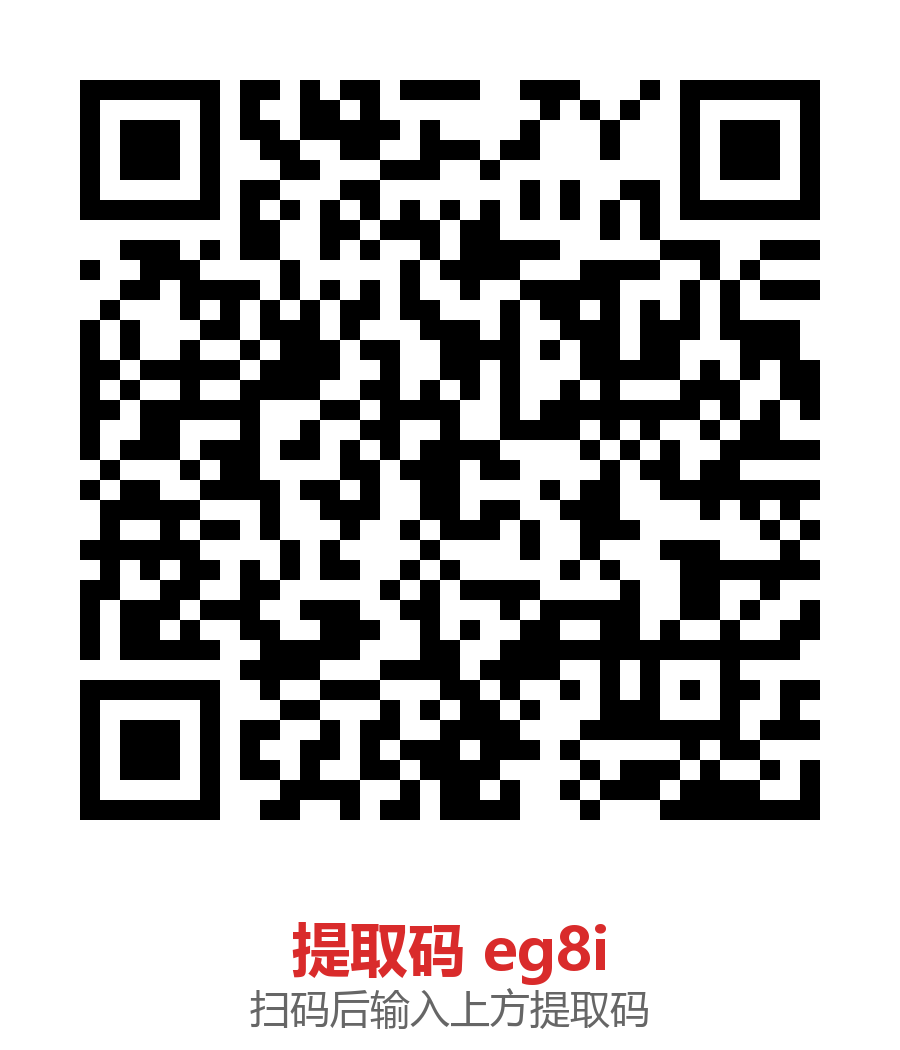
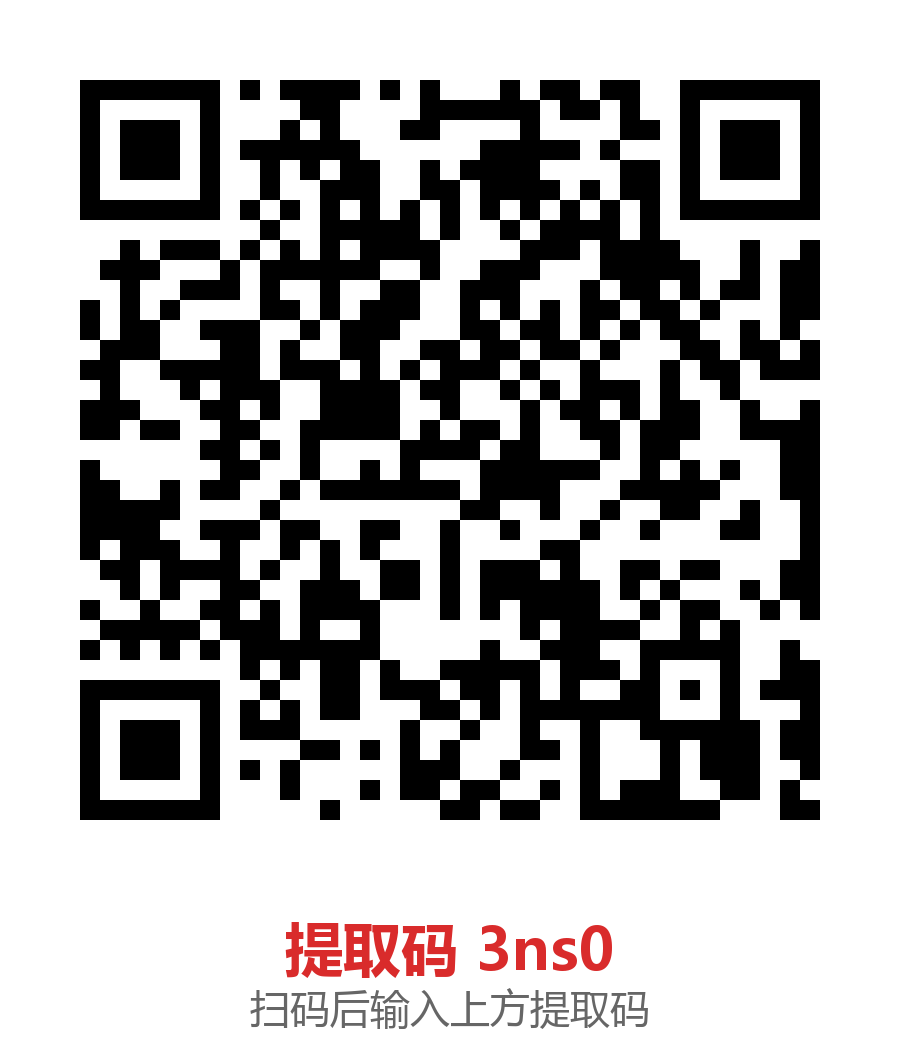
蓝奏云换包 1.2.6：链接 i91pV4g3popi，提取码 3ns0

Changed region(s): [[0.0622, 0.061, 0.9333, 0.7924], [0.3111, 0.8533, 0.6844, 0.9448]]

diff --git a/docs/index.html b/docs/index.html
@@ -88,8 +88,8 @@
       <img src="qr-lanzou.png" alt="蓝奏云二维码" width="92" height="92" style="border-radius:8px;flex:0 0 auto">
       <div>
         <b>蓝奏云</b>
-        <p style="margin-top:4px">扫码或点链接下载，<b>提取码 eg8i</b></p>
-        <p style="margin-top:6px"><a href="https://wwazc.lanzoum.com/i3sCs4g3lizi" style="color:#2563eb">wwazc.lanzoum.com/i3sCs4g3lizi</a></p>
+        <p style="margin-top:4px">扫码或点链接下载，<b>提取码 3ns0</b></p>
+        <p style="margin-top:6px"><a href="https://wwazc.lanzoum.com/i91pV4g3popi" style="color:#2563eb">wwazc.lanzoum.com/i91pV4g3popi</a></p>
       </div>
     </div>
     <div class="card">
